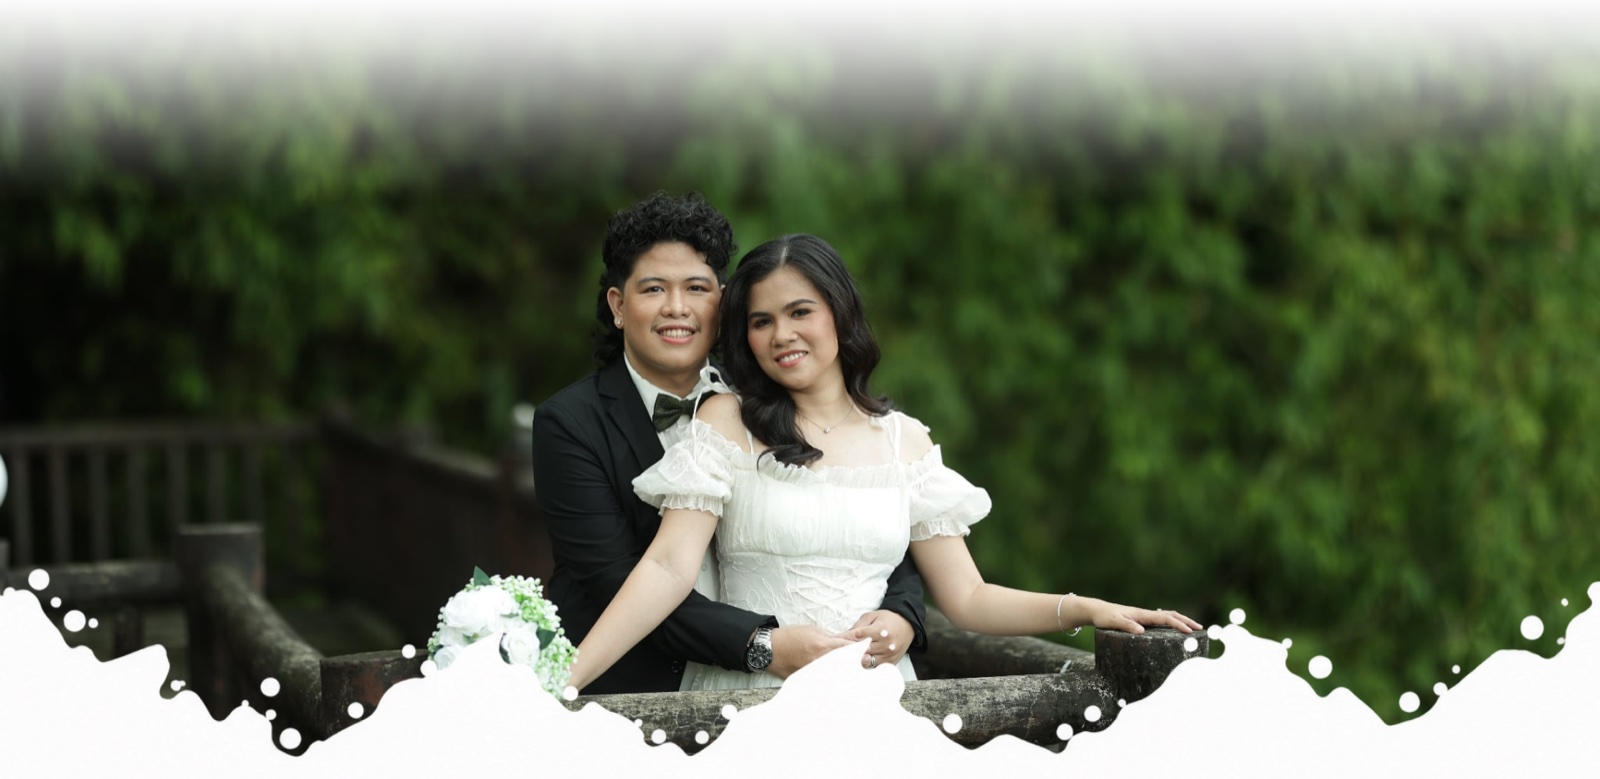
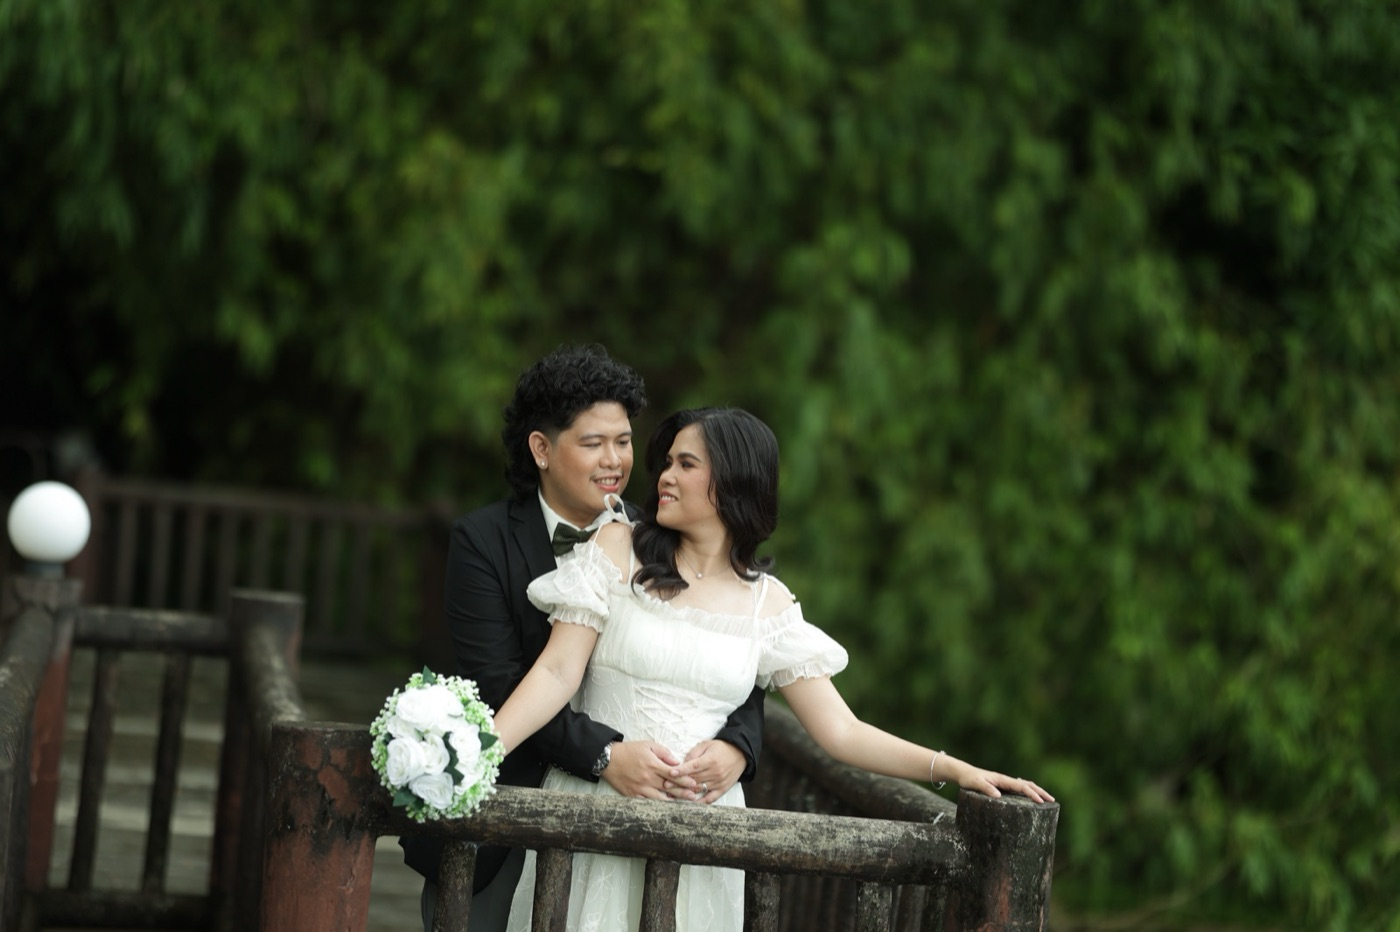
Update photo slideshow, entourage, RSVP prefill, and section transitions
- Replace photo slides with raw prenup photos (5 slides, compressed)
- Add CSS box-shadow inset for seamless white-to-photo section transitions
- Add slideshow auto-rotation (5s) with nav buttons and click-to-advance
- Update entourage: Andrei Gabriel Viñalon, Elias Joaquin Viñalon (banner), flower girls two-column
- RSVP name field auto-filled and read-only for personalized invitation links
- Re-encode guest data with new entries

diff --git a/theweddingofangelicaandjordan/invitation.html b/theweddingofangelicaandjordan/invitation.html
@@ -255,6 +255,7 @@ body.loaded section{transition:opacity .4s ease}
   color:var(--dark-deep);
   letter-spacing:2px;
   margin-top:clamp(8px,1.5vh,16px);
+  margin-bottom:clamp(8px,1.5vh,16px);
   opacity:0;
   transform:translateY(15px);
 }
@@ -328,34 +329,39 @@ body.loaded section{transition:opacity .4s ease}
 .photo-section{
   position:relative;
   width:100%;
-  aspect-ratio:1916/933;
+  aspect-ratio:1400/932;
   background:var(--white);
   z-index:2;
+  margin-top:-80px;
+  overflow:hidden;
 }
 .photo-section-inner{
   position:relative;
   width:100%;height:100%;
   overflow:hidden;
-  cursor:pointer;
+}
+.photo-section::before{
+  content:'';position:absolute;top:0;bottom:0;left:-80px;right:-80px;
+  z-index:3;pointer-events:none;
+  box-shadow:inset 0 12vw 3vw -7.5vw #fff,inset 0 -12vw 3.5vw -3.5vw #fff;
 }
 .photo-slide{
   position:absolute;inset:0;
-  background-size:100% auto;
+  background-size:cover;
   background-position:center center;
   background-repeat:no-repeat;
   opacity:0;
-  transition:opacity 1s ease;
+  transition:opacity 1.2s ease;
 }
 .photo-slide.active{opacity:1}
 
 .photo-nav{
   position:absolute;top:50%;transform:translateY(-50%);
   width:clamp(44px,5vw,60px);height:clamp(44px,5vw,60px);
-  background:none;
-  border:none;
+  background:none;border:none;
   font-size:clamp(32px,4vw,48px);
   color:rgba(255,255,255,.85);
-  cursor:pointer;z-index:3;
+  cursor:pointer;z-index:4;
   display:flex;align-items:center;justify-content:center;
   transition:color .2s,transform .2s;
   text-shadow:0 1px 6px rgba(0,0,0,.4);
@@ -1329,6 +1335,7 @@ select.rsvp-input option{background:var(--beige);color:var(--dark-deep)}
     <div class="photo-slide" style="background-image:url('assets/photo-slide-2.jpg')"></div>
     <div class="photo-slide" style="background-image:url('assets/photo-slide-3.jpg')"></div>
     <div class="photo-slide" style="background-image:url('assets/photo-slide-4.jpg')"></div>
+    <div class="photo-slide" style="background-image:url('assets/photo-slide-5.jpg')"></div>
     <button class="photo-nav prev" id="photoPrev">&#8249;</button>
     <button class="photo-nav next" id="photoNext">&#8250;</button>
   </div>
@@ -1520,7 +1527,7 @@ select.rsvp-input option{background:var(--beige);color:var(--dark-deep)}
   <div class="entourage-trio">
     <div class="entourage-group">
       <div class="entourage-role">Coin Bearer</div>
-      <div class="entourage-name">Andrei</div>
+      <div class="entourage-name">Andrei Gabriel Vi&ntilde;alon</div>
     </div>
     <div class="entourage-group">
       <div class="entourage-role">Bible Bearer</div>
@@ -1535,9 +1542,21 @@ select.rsvp-input option{background:var(--beige);color:var(--dark-deep)}
   <div class="entourage-divider"></div>
 
   <div class="entourage-group" style="text-align:center">
-    <div class="entourage-role">Flower Girls</div>
-    <div class="entourage-name">Amara Jholancob</div>
-    <div class="entourage-name">Mia Elishajoy Luce&ntilde;a</div>
+    <div class="entourage-role">Here Comes the Bride</div>
+    <div class="entourage-name">Elias Joaquin Vi&ntilde;alon</div>
+  </div>
+
+  <div class="entourage-divider"></div>
+
+  <div class="entourage-grid">
+    <div class="entourage-group">
+      <div class="entourage-role">Flower Girl</div>
+      <div class="entourage-name">Amara Jholancob</div>
+    </div>
+    <div class="entourage-group">
+      <div class="entourage-role">Flower Girl</div>
+      <div class="entourage-name">Mia Elishajoy Luce&ntilde;a</div>
+    </div>
   </div>
 </section>
 
@@ -1680,7 +1699,7 @@ select.rsvp-input option{background:var(--beige);color:var(--dark-deep)}
       <div class="rsvp-row">
         <div class="rsvp-field">
           <label class="rsvp-field-label">Full Name</label>
-          <input class="rsvp-input" type="text" name="name" required >
+          <input class="rsvp-input" type="text" name="name" id="rsvpName" required >
         </div>
         <div class="rsvp-field">
           <label class="rsvp-field-label">Will you attend?</label>
@@ -1758,6 +1777,7 @@ setInterval(updateCountdown, 1000);
   fitEntourageText();
 })();
 
+
 /* ── Photo Slideshow ── */
 let photoIdx = 0;
 const photoSlides = document.querySelectorAll('.photo-slide');
@@ -1766,9 +1786,10 @@ function showPhoto(i){
   photoIdx = (i + photoSlides.length) % photoSlides.length;
   photoSlides[photoIdx].classList.add('active');
 }
-document.getElementById('photoPrev').addEventListener('click', (e) => { e.stopPropagation(); showPhoto(photoIdx - 1); });
-document.getElementById('photoNext').addEventListener('click', (e) => { e.stopPropagation(); showPhoto(photoIdx + 1); });
-document.querySelector('.photo-section-inner').addEventListener('click', () => showPhoto(photoIdx + 1));
+document.getElementById('photoPrev').addEventListener('click', function(e){ e.stopPropagation(); showPhoto(photoIdx - 1); });
+document.getElementById('photoNext').addEventListener('click', function(e){ e.stopPropagation(); showPhoto(photoIdx + 1); });
+document.querySelector('.photo-section-inner').addEventListener('click', function(){ showPhoto(photoIdx + 1); });
+setInterval(function(){ showPhoto(photoIdx + 1); }, 5000);
 
 /* ── Mobile Nav ── */
 const hamburger = document.getElementById('hamburger');
@@ -2125,7 +2146,7 @@ document.getElementById('rsvpAnother').addEventListener('click', function(){
   if(!guestId && window.location.search) guestId = window.location.search.substring(1);
 
   /* Guest lookup — ID → [Name, Category] */
[2 lines of base64/hex data omitted]
 
   var cardBg = document.getElementById('cardBg');
   var guestData = guests[guestId];
@@ -2140,6 +2161,14 @@ document.getElementById('rsvpAnother').addEventListener('click', function(){
     guestEl.textContent = 'Our Beloved Guest';
   } else {
     guestEl.style.display = 'none';
+  }
+
+  var rsvpNameInput = document.getElementById('rsvpName');
+  if(rsvpNameInput && guestName){
+    rsvpNameInput.value = guestName;
+    rsvpNameInput.readOnly = true;
+    rsvpNameInput.style.opacity = '.7';
+    rsvpNameInput.style.cursor = 'default';
   }
 
   var criticalImages = [
